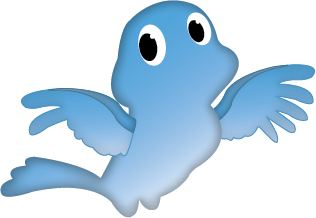
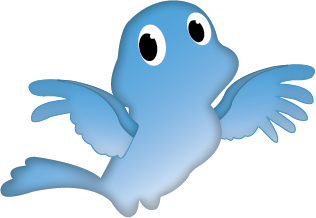
Updated instruction arrow (along with graphics)

Changed region(s): [[0.057, 0.3578, 0.4272, 0.7431], [0.3703, 0.5505, 0.4557, 0.6606]]

diff --git a/src/view/Minigames/Elevator/BirdTreeView/BirdTreeView.js b/src/view/Minigames/Elevator/BirdTreeView/BirdTreeView.js
@@ -141,7 +141,8 @@ MW.BirdTreeView = MW.ElevatorView.extend(
 		/* Add instruction arrow */
 		instructionArrow = new Kinetic.Image({
 			image: MW.Images.ELEVATORGAME_ARROW,
-			opacity: 0
+			opacity: 0,
+			scale: 0.6
 		});
 		panelLayer.add(instructionArrow);
 		
@@ -165,50 +166,52 @@ MW.BirdTreeView = MW.ElevatorView.extend(
 			bird.showNumber(false);
 			setTimeout(function () {
 				bird.showNumber(true);
-				setTimeout(function () {
-					instructionArrow.setOpacity(1);
-					var i = 0;
-					var birdPos = bird.getAbsolutePosition();
-					/* Arrow that helps instructions */
-					var arrowAnimation = setInterval(function() {
-						instructionArrow.rotateDeg(bird.featherPos[i].r);
-						instructionArrow.setX(birdPos.x +
-							bird.featherPos[i].x *
-							bird.getScale().x * layer.getScale().x);
-						instructionArrow.setY(birdPos.y +
-							bird.featherPos[i].y *
-							bird.getScale().y * layer.getScale().y +
-							/* The arrow rotates "over x" when it goes 180% */
-							(instructionArrow.getRotation() < 2 ?
-							-instructionArrow.getImage().height / 2 : 
-							instructionArrow.getImage().height / 2));
-						panelLayer.draw();
-						i++;
-						if (i >= max) {
-							clearInterval(arrowAnimation);
-							setTimeout(function () {
-								instructionArrow.setOpacity(0);
-								instructionArrow.setRotation(0);
-								panelLayer.draw();
-							}, second * (2 * arrowTime) * 1000)
-						}
-					}, second * arrowTime * 1000);
-					setTimeout(function () {
-						bird.say(MW.Sounds.BIRD_INSTRUCTION_1B);
-						numpanel.lightUp(true);
+				instructionArrow.setOpacity(1);
+				var i = 0;
+				var birdPos = bird.getAbsolutePosition();
+				
+				/* Arrow that helps instructions */
+				var arrowAnimation = setInterval(function() {
+					instructionArrow.rotateDeg(bird.featherPos[i].r);
+					instructionArrow.setX(birdPos.x +
+						bird.featherPos[i].x *
+						bird.getScale().x * layer.getScale().x);
+					instructionArrow.setY(birdPos.y +
+						bird.featherPos[i].y *
+						bird.getScale().y * layer.getScale().y +
+						/* The arrow rotates "over x" when it goes 180% */
+						(instructionArrow.getRotation() < 2 ?
+						-instructionArrow.getImage().height / 2 : 
+						instructionArrow.getImage().height / 2) *
+						instructionArrow.getScale().y);
+					panelLayer.draw();
+					i++;
+					if (i >= max) {
+						clearInterval(arrowAnimation);
 						setTimeout(function () {
-							if (!shows) {
-								bird.showNumber(false);
-							}
-							numpanel.lightUp(false);
-							numpanel.getGroup().setListening(numListen);
-							boolpanel.getGroup().setListening(boolListen);
+							instructionArrow.setOpacity(0);
+							instructionArrow.setRotation(0);
 							panelLayer.draw();
-						}, second * MW.Sounds.BIRD_INSTRUCTION_1B.getLength() * 1000);
-					}, second * ((max + 3) * arrowTime) * 1000);
-				}, second * 1.5 * 1000);
+						}, second * (2 * arrowTime) * 1000)
+					}
+				}, second * arrowTime * 1000);
+				
+				setTimeout(function () {
+					bird.say(MW.Sounds.BIRD_INSTRUCTION_1B);
+					numpanel.lightUp(true);
+					setTimeout(function () {
+						if (!shows) {
+							bird.showNumber(false);
+						}
+						numpanel.lightUp(false);
+						numpanel.getGroup().setListening(numListen);
+						boolpanel.getGroup().setListening(boolListen);
+						panelLayer.draw();
+					}, second * MW.Sounds.BIRD_INSTRUCTION_1B.getLength() * 1000);
+				}, second * ((max + 3) * arrowTime) * 1000);
+				
 			}, second * 5 * 1000);
-			return MW.Sounds.BIRD_INSTRUCTION_1A.getLength() +
+			return 5 + // Before seeing feathers
 				((max + 3) * arrowTime) + // Arrowtime
 				MW.Sounds.BIRD_INSTRUCTION_1B.getLength() + 0.5;
 		}

diff --git a/src/view/Minigames/Elevator/BirdTreeView/Bird.js b/src/view/Minigames/Elevator/BirdTreeView/Bird.js
@@ -51,16 +51,16 @@ MW.Bird = function (config) {
 	group.add(beak);
 	
 	group.featherPos = [
-		{x: 310, y: 65, r: 0},		// 1
-		{x: 310, y: 100, r: 0},	// 2 
-		{x: 305, y: 115, r: 0},	// 3
-		{x: 295, y: 130, r: 0},	// 4
-		{x: 275, y: 145, r: 0},	// 5
-		{x: 26, y: 88, r: 180},		// 6
-		{x: 30, y: 119, r: 0},	// 7
-		{x: 36, y: 139, r: 0},	// 8
-		{x: 50, y: 151, r: 0},	// 9
-		{x: 69, y: 161, r: 0}		// 10
+		{x: 315, y: 71, r: 0},		// 1
+		{x: 317, y: 100, r: 10},	// 2 
+		{x: 313, y: 119, r: 10},	// 3
+		{x: 306, y: 136, r: 20},	// 4
+		{x: 291, y: 150, r: 20},	// 5
+		{x: 27, y: 88, r: 120},		// 6
+		{x: 31, y: 119, r: -10},	// 7
+		{x: 40, y: 139, r: -10},	// 8
+		{x: 58, y: 151, r: -20},	// 9
+		{x: 81, y: 155, r: -20}		// 10
 	]
 	
 	
